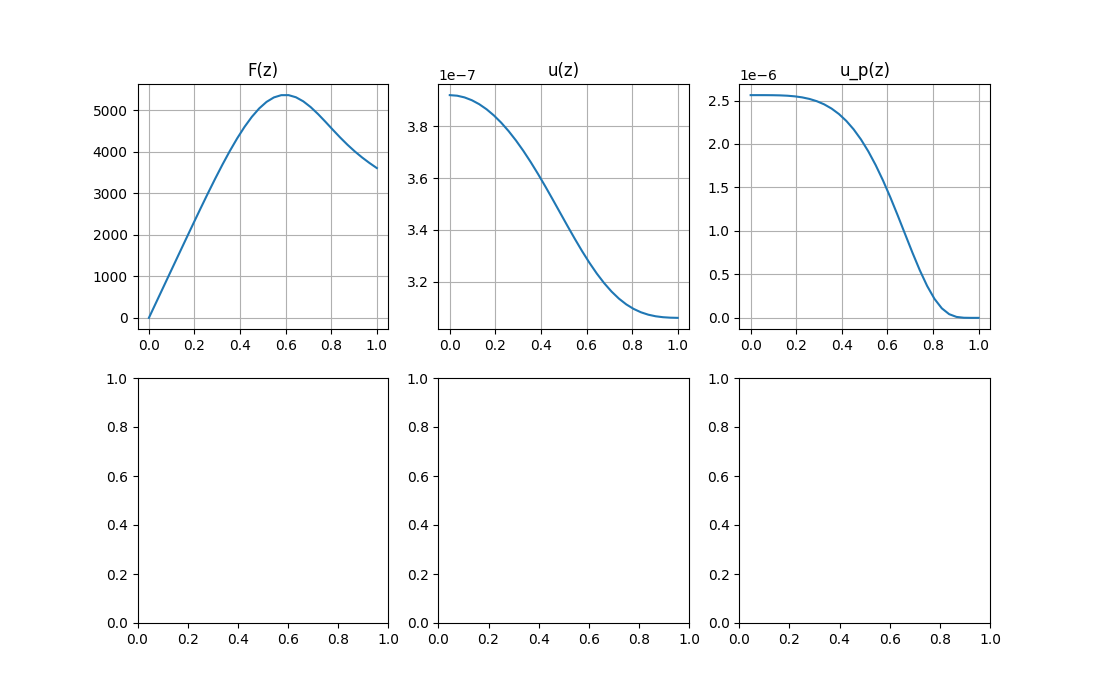
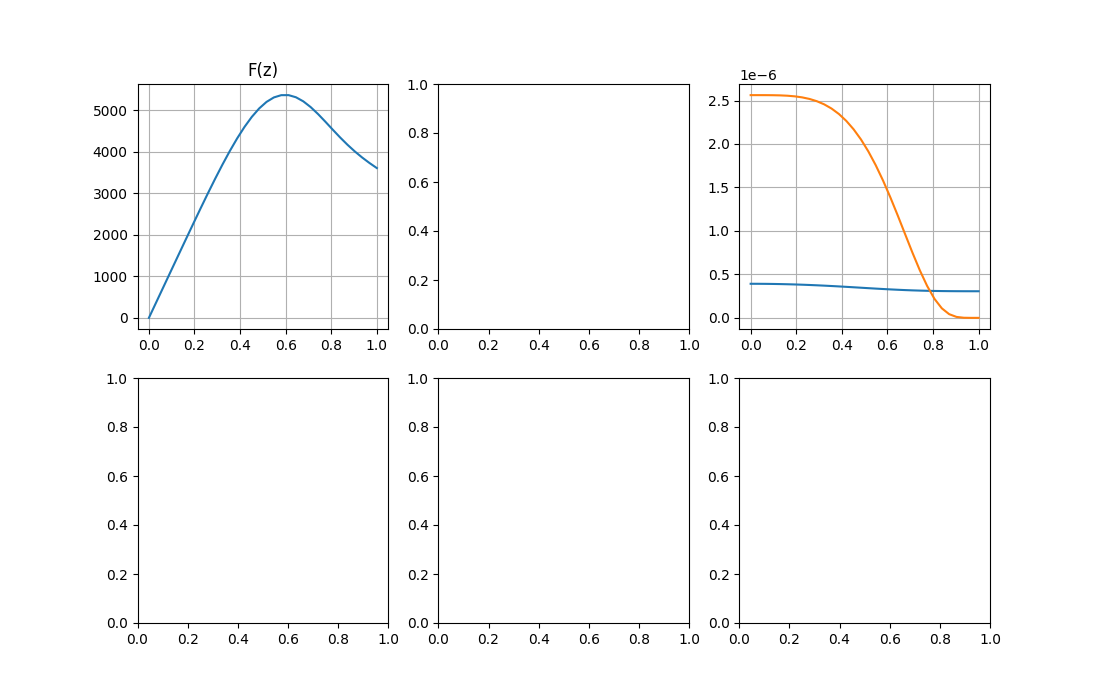
прогонка работает правильно

diff --git a/model/labs/lab_03/src/main.py b/model/labs/lab_03/src/main.py
@@ -4,11 +4,11 @@ from lsm_for_line import LeastSquaresMethodLine
 import numpy as np
 from matplotlib import pyplot as plt
 
-a1, b1 = LeastSquaresMethodLine(x=t_k, y=k1).get_solve()
-a2, b2 = LeastSquaresMethodLine(x=t_k, y=k2).get_solve()
+a1, b1 = LeastSquaresMethodLine(x=np.log(t_k), y=np.log(k1)).get_solve()
+a2, b2 = LeastSquaresMethodLine(x=np.log(t_k), y=np.log(k2)).get_solve()
 
-is_k1 = True
-# is_k1 = False
+# is_k1 = True
+is_k1 = False
 
 EPS = 1e-4
 
@@ -79,24 +79,30 @@ def _lambda(z):
     """
     Функция λ(z)
     """
+    if is_k1:
+        c / (3 * k1(z))
 
-    return c / (3 * k1(z))
+    return c / (3 * k2(z))
 
 
 def _p(z):
     """
     Функция p(z)
     """
+    if is_k1:
+        c * k1(z)
 
-    return c * k1(z)
+    return c * k2(z)
 
 
 def f(z):
     """
     Функция f(z)
     """
+    if is_k1:
+        return c * k1(z) * u_p(z)
 
-    return c * k1(z)
+    return c * k2(z) * u_p(z)
 
 
 def v_n(z, h):
@@ -128,8 +134,9 @@ def left_boundary_condition(z0, g0, h):
     Левое краевое условие метода правой прогонки
     """
 
-    k0 = -kappa1(z0, z0 + h) * (z0 + h / 2) / (r ** 2 * h) - _p(z0 + h / 2) * (z0 + h / 2) * h / 8
-    m0 = kappa1(z0, z0 + h) * (z0 + h / 2) / (r ** 2 * h) - _p(z0 + h / 2) * (z0 + h / 2) * h / 8 + h / 4 * _p(z0) * z0
+    k0 = kappa1(z0, z0 + h) * (z0 + h / 2) / (r ** 2 * h) - _p(z0 + h / 2) * (z0 + h / 2) * h / 8  # правильно
+
+    m0 = -kappa1(z0, z0 + h) * (z0 + h / 2) / (r ** 2 * h) - _p(z0 + h / 2) * (z0 + h / 2) * h / 8 - _p(z0) * z0 * h / 4
 
     p0 = -z0 * g0 / r - (f(z0 + h / 2) * (z0 + h / 2) + f(z0) * z0) * h / 4
 
@@ -141,11 +148,12 @@ def right_boundary_condition(zn, h):
     """
     Правое краевое условие метода правой прогонки
     """
-    kn = kappa1(zn - h, zn) / (r ** 2 * h) - _p(zn - h / 2) * (zn - h / 2) * h / 8
+    kn = kappa1(zn - h, zn) * (zn - h / 2) / (r ** 2 * h) - _p(zn - h / 2) * (zn - h / 2) * h / 8  # правильно
+
     mn = -kappa1(zn - h, zn) * (zn - h / 2) / (r ** 2 * h) - 0.393 * c * zn / r - _p(zn) * zn * h / 4 - _p(
         zn - h / 2) * (zn - h / 2) * h / 8
 
-    pn = - (f(zn) * zn + f(zn - h / 2) * (zn - h / 2)) * h / 4
+    pn = -(f(zn) * zn + f(zn - h / 2) * (zn - h / 2)) * h / 4
 
     return kn, mn, pn
 
@@ -167,8 +175,8 @@ def right_sweep(a, b, h):
     n = 1
 
     while z < b + h / 2:
-        a_n = (z - h / 2) * (kappa1(z - h, z))
-        c_n = ((z + h / 2) * kappa1(z, z + h))
+        a_n = (z - h / 2) * (kappa1(z - h, z)) / (r ** 2 * h)
+        c_n = ((z + h / 2) * kappa1(z, z + h)) / (r ** 2 * h)
         b_n = a_n + c_n + _p(z) * v_n(z, h)
         d_n = f(z) * v_n(z, h)
 
@@ -181,7 +189,7 @@ def right_sweep(a, b, h):
     # Обратный ход
     u = [0] * n
 
-    u[n - 1] = (pn - mn * eta[n]) / (kn + mn * ksi[n])
+    u[n - 1] = (pn - kn * eta[n]) / (kn * ksi[n] + mn)
 
     for i in range(n - 2, -1, -1):
         u[i] = ksi[i + 1] * u[i + 1] + eta[i + 1]
@@ -194,15 +202,21 @@ def main() -> None:
     Главная функция
     """
     a, b = 0, 1
-    n = 50  # число узлов
+    n = 1000  # число узлов
     h = (b - a) / n
 
     u_res = right_sweep(a, b, h)
 
     z_res = np.arange(a, b + h, h)
 
+    up_res = [0] * len(z_res)
+
+    for i in range(len(z_res)):
+        up_res[i] = u_p(z_res[i])
+
     plt.subplot(2, 2, 1)
     plt.plot(z_res, u_res, 'r', label='u(z)')
+    plt.plot(z_res, up_res, 'g', label='u_p')
     plt.legend()
     plt.grid()
 
